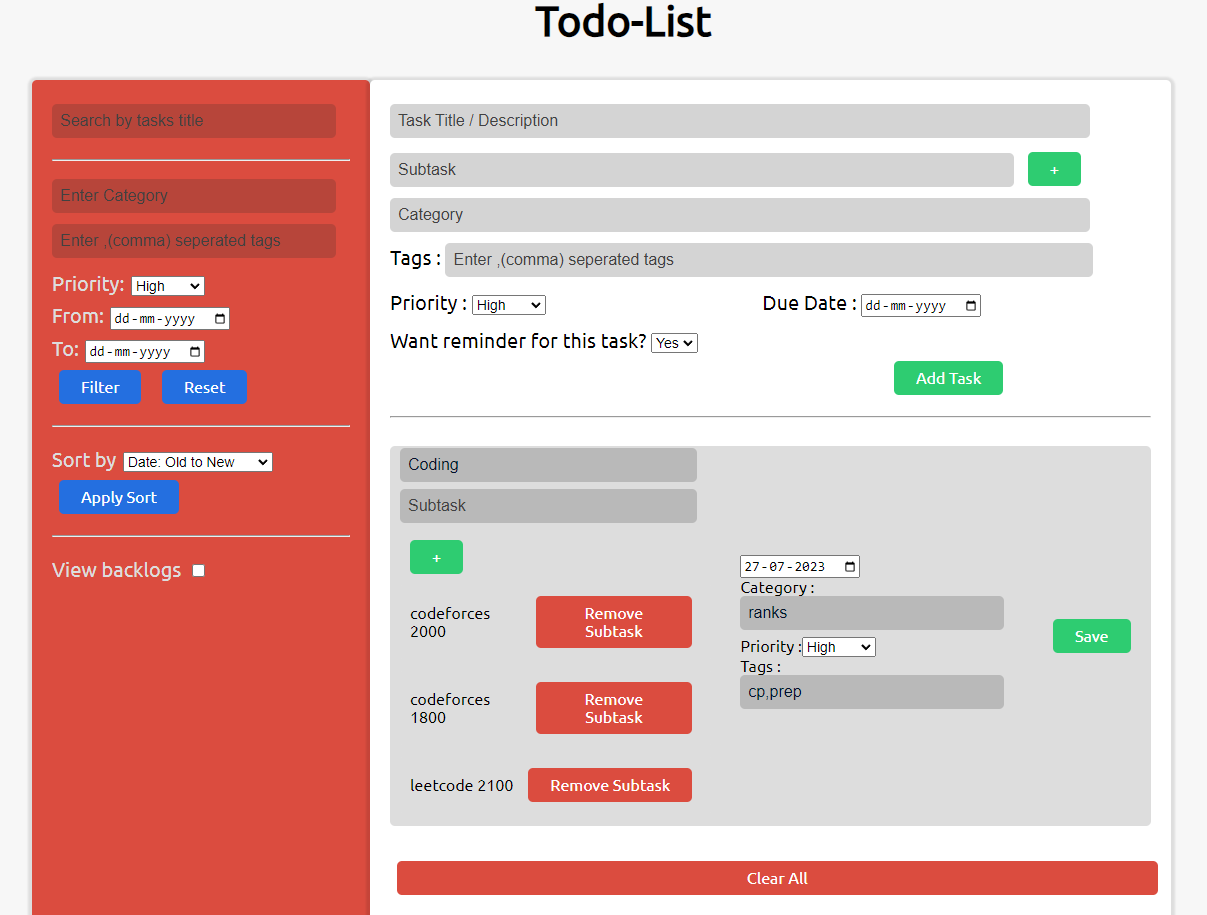
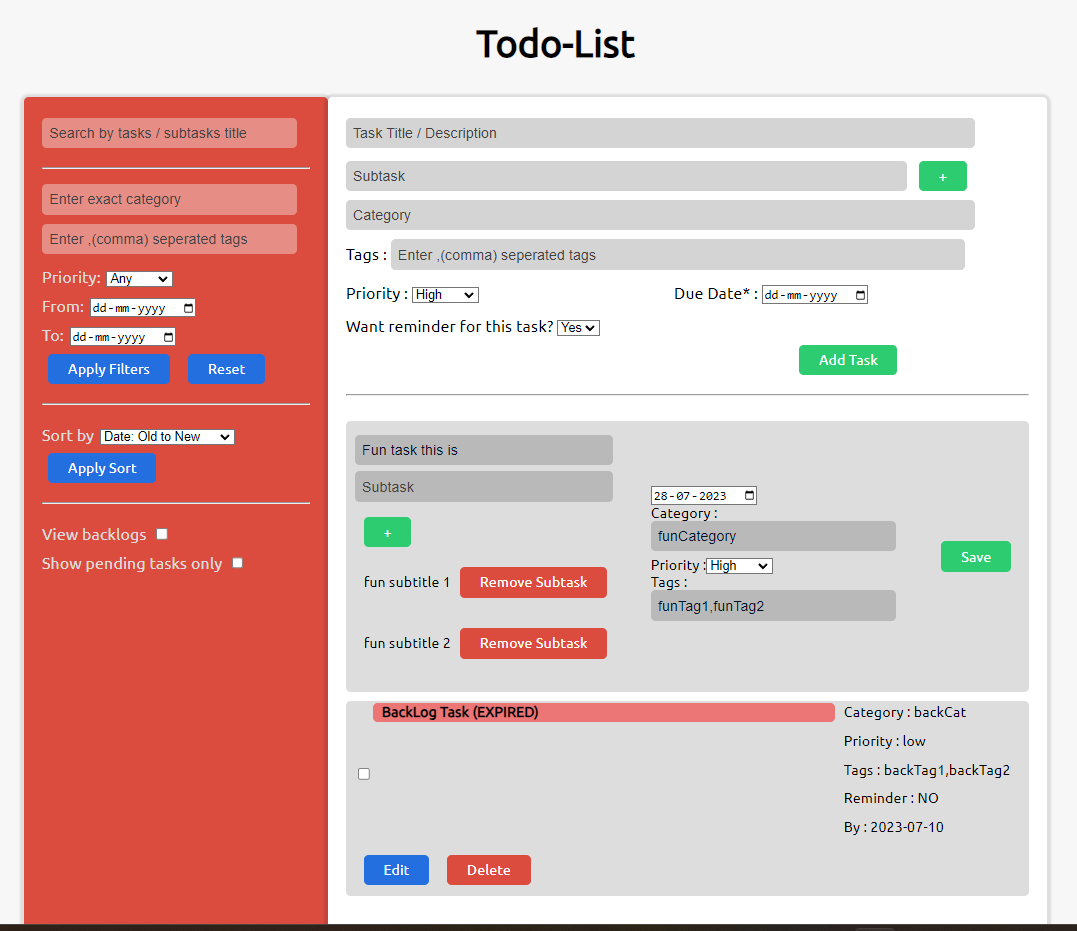
changed images for ReadMe file

Changed region(s): [[0.0, 0.0612, 1.0, 1.0], [0.429, 0.0, 0.6128, 0.0612]]

diff --git a/index.html b/index.html
@@ -74,13 +74,14 @@
                   <br>
                   <label for="tags">Tags : </label>
                   <input type="text" id="tags" name="tags" class="tagsInput" placeholder="Enter ,(comma) seperated tags">
+                  <br>
                   <label for="priority">Priority : </label>
                   <select name="priority" id="priority" class="priorityInput">
                     <option value="high">High</option>
                     <option value="medium">Medium</option>
                     <option value="low">Low</option>
                   </select>
-                  <label for="dueDate">Due Date : </label>
+                  <label for="dueDate">Due Date* : </label>
                   <input type="date" id="dueDate" name="dueDate">
                   <br>
                   <label for="reminder">Want reminder for this task? </label> 

diff --git a/index.js b/index.js
@@ -181,12 +181,16 @@ function renderlist() {
     const tag = document.createElement("li");
     tag.innerHTML = "Tags : " + arrayOfTasks[i].tags.join();
 
+    const rem = document.createElement("li");
+    rem.innerHTML = "Reminder : " + arrayOfTasks[i].reminder.toUpperCase();
+
     const dat = document.createElement("li");
     dat.innerHTML = "By : " + arrayOfTasks[i].dueDate;
 
     propDiv.appendChild(cat);
     propDiv.appendChild(pri);
     propDiv.appendChild(tag);
+    propDiv.appendChild(rem);
     propDiv.appendChild(dat);
 
     const buttonsbox = document.createElement("div");

diff --git a/style.css b/style.css
@@ -122,15 +122,15 @@ li button {
     margin: 10px;
 }
 .topDiv{
-    position: relative;
     display: grid;
     grid-template-areas: "col1 col2 col3";
-    grid-auto-columns: 0.001fr 3fr 1fr;
+    grid-auto-columns: 0.001fr 2.5fr 1fr;
 }
 .taskCheck{
     grid-area: col1;
 }
 .textDiv{
+    width: 100%;
     grid-area: col2;
 }
 .propDiv{
